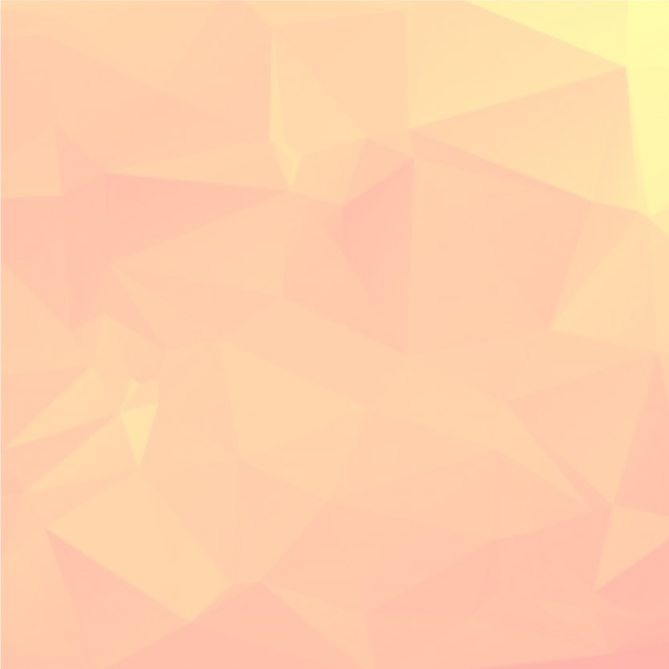
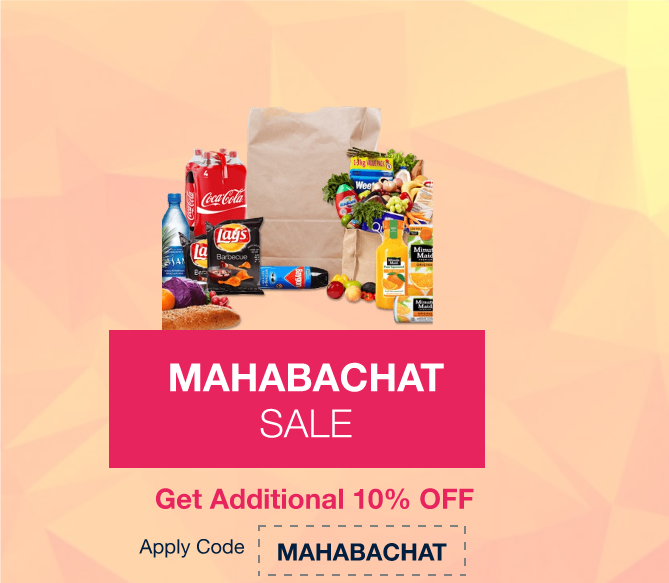
carousel added

diff --git a/src/Components/Delivery/Delivery.js b/src/Components/Delivery/Delivery.js
@@ -3,8 +3,21 @@ import "./Delivery.css"
 import logo from '../../images/logo.png'
 import location_icon from '../../images/location.png'
 import Services from '../Services/Services';
+import Slider from "react-slick";
+import "slick-carousel/slick/slick.css";
+import "slick-carousel/slick/slick-theme.css";
+import banner1 from '../../images/carousel_banner.png'
+
+
 
 const Delivery = () => {
+    const settings = {
+        dots: true,
+        infinite: true,
+        speed: 500,
+        slidesToShow: 1,
+        slidesToScroll: 1
+    };
     return (
         <div className="container">
             <div className="banner">
@@ -35,9 +48,18 @@ const Delivery = () => {
                     </div>
                 </div>
                 <div className="carousel_section">
-
+                    <Slider {...settings}>
+                        <div>
+                            <img src={banner1} alt="" />
+                        </div>
+                        <div>
+                            <h3>2</h3>
+                        </div>
+                        <div>
+                            <h3>3</h3>
+                        </div>
+                    </Slider>
                 </div>
-
             </div>
             <Services />
         </div>

diff --git a/src/Components/Delivery/Delivery.css b/src/Components/Delivery/Delivery.css
@@ -103,10 +103,12 @@ header {
 }
 
 .carousel_section {
-  background-image: url("../../images/carousel_banner.png");
   height: 500px;
-  background-repeat: no-repeat;
-  background-position: center;
-  background-size: cover;
-  width: 35%;
+  width: 475px;
+  padding: 0px 30px;
+}
+
+.carousel_section img {
+  width: 100%;
+  height: 460px;
 }
